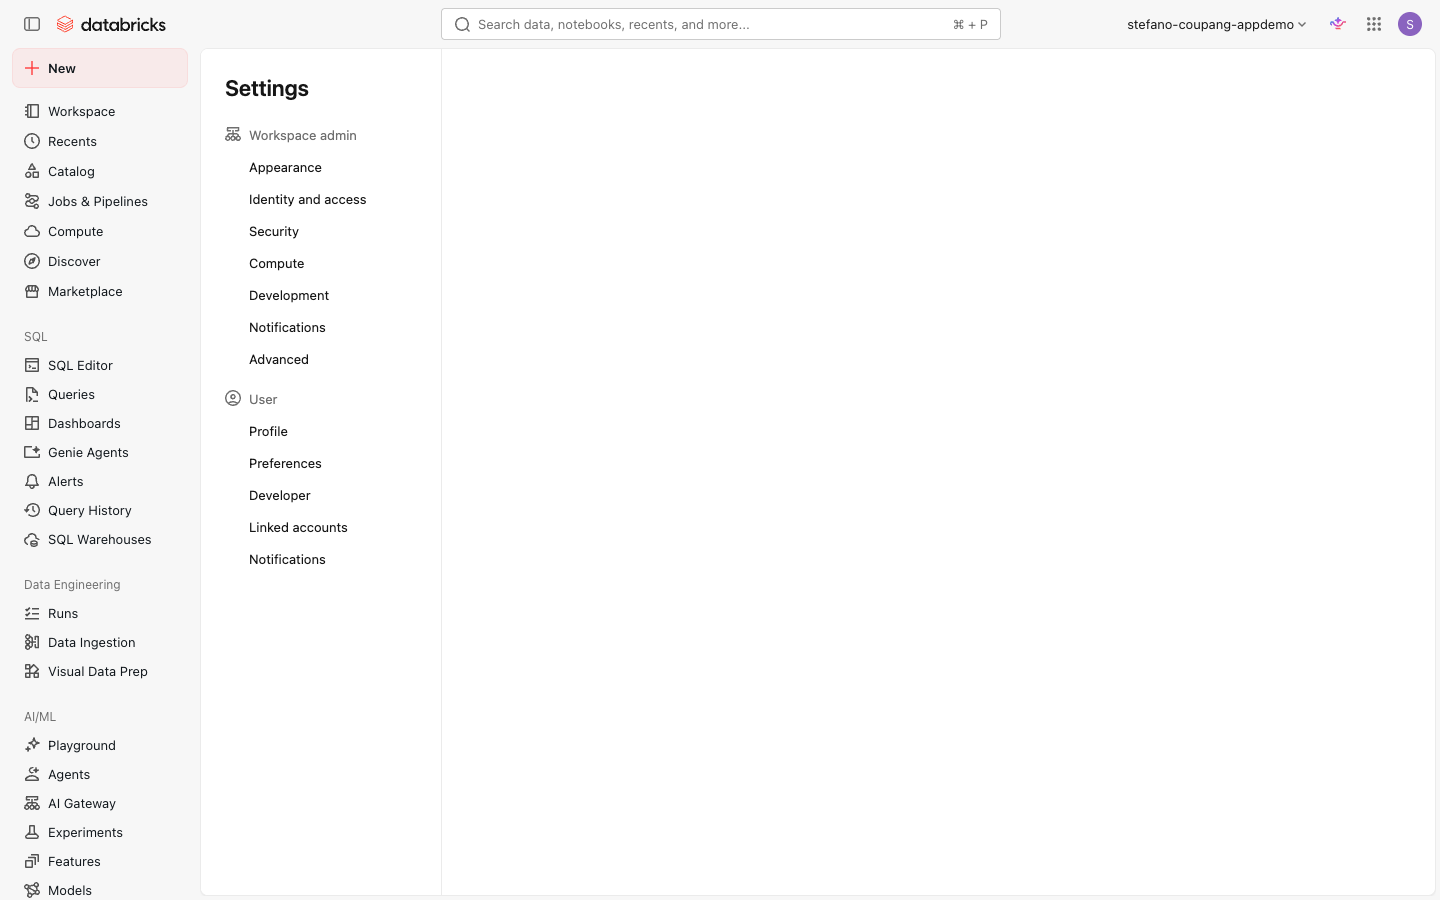
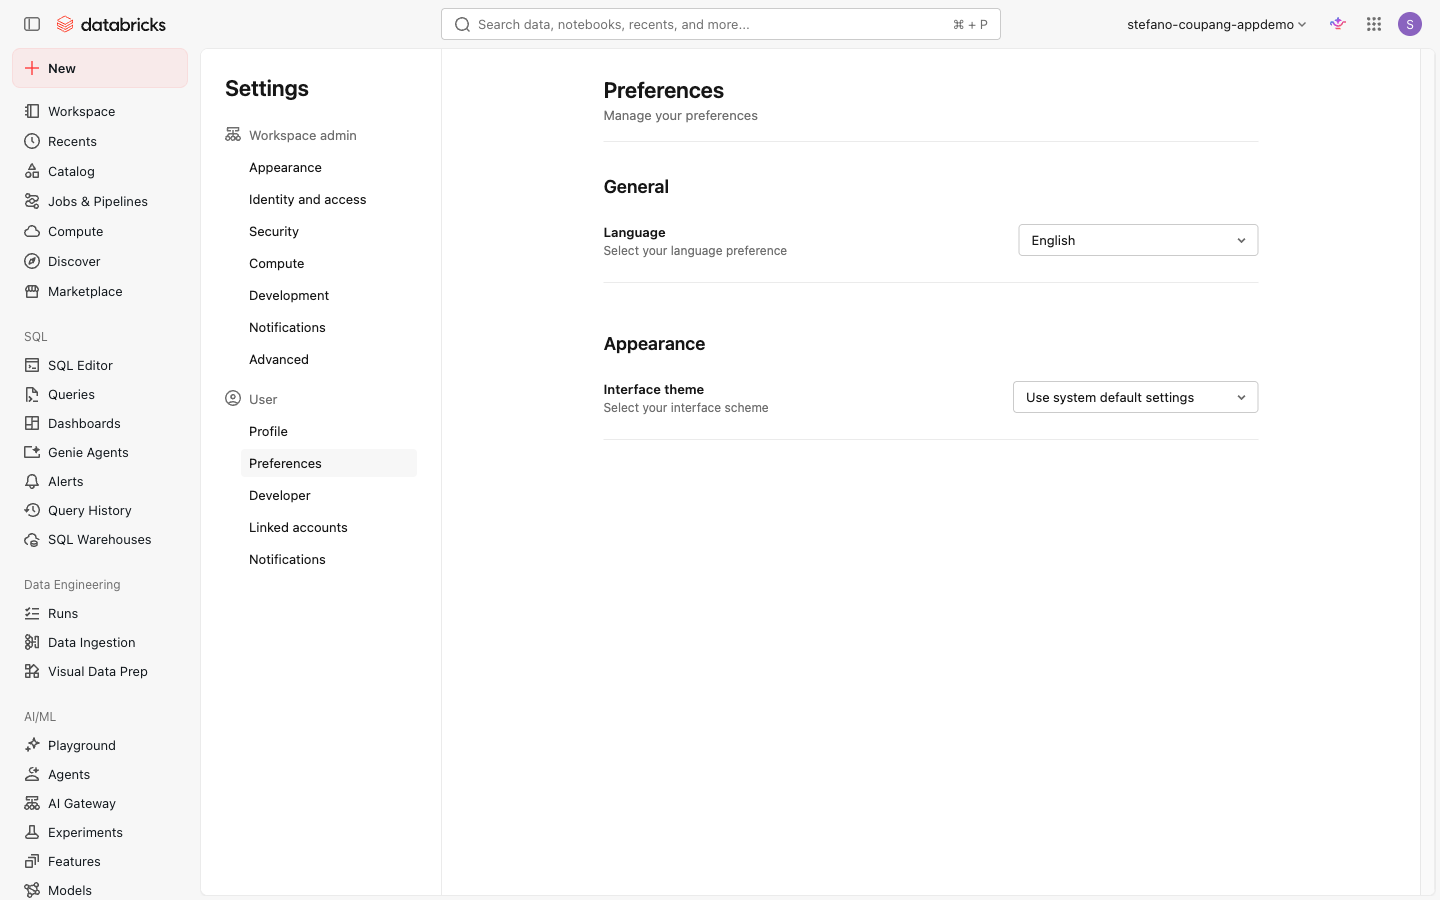
스크린샷 캡션을 설명으로 교체 + 한국어 설정 화면 재촬영 + Free Edition 안내 추가
- 실제 촬영된 스크린샷 17곳의 '📸 캡처 안내'(촬영 지시문) 캡션을 화면 설명으로 교체
- Preferences 화면 재촬영: 빈 하얀 화면 → General > Language 설정이 보이도록 수정
- 언어 드롭다운에서 '한국어'가 보이는 스크린샷(05-language-korean.png) 신규 추가
- 커리큘럼 마지막(README·docs/14)에 Databricks Free Edition 안내 추가 (개인 실습 유도)
- 오래된 참조 수정: 권장 순서 01→14, 동영상 데모 13번

diff --git a/docs/14-snowflake-qa.md b/docs/14-snowflake-qa.md
@@ -252,8 +252,37 @@ Snowflake도 **Iceberg 테이블**을 지원하므로, "Iceberg를 공통 분모
 
 ## 다음 단계 ➡
 
-축하합니다 — 이 문서로 **온보딩 커리큘럼(01~13)을 모두 마쳤습니다!** 🎉
+축하합니다 — 이 문서로 **온보딩 커리큘럼(01~14)을 모두 마쳤습니다!** 🎉
 
 - 🏠 [목차로 돌아가기](../README.md) — 배운 내용을 다시 훑어보세요.
 - 실전 감을 키우려면, [06. 테이블·Volume·RBAC/ABAC](./06-tables-volumes-rbac-abac.md)와 [09. SQL 작성·저장](./09-sql.md)을 실제 데이터로 다시 따라 해 보세요.
 - 이 Q&A의 결론은 하나입니다: **정답은 워크로드에 있습니다.** 작은 PoC로 직접 확인하는 습관이 가장 강력한 무기입니다.
+
+---
+
+## 🚀 이제 직접 해보기 — Databricks Free Edition
+
+이 교육에서 사용한 워크스페이스(`coupang-appdemo`)는 **교육용 샌드박스**입니다. 교육이 끝난 뒤에도 **개인적으로 마음껏 이것저것 실습**해 보고 싶다면 **[Databricks Free Edition](https://www.databricks.com/learn/free-edition)** 을 추천합니다.
+
+**Databricks Free Edition이란?**
+- **완전 무료 · 기간 제한 없음**(영구 무료). 신용카드 없이 시작할 수 있습니다.
+- **학생 · 취미 개발자 · 입문자**를 위한 버전으로, 학습과 개인 프로젝트에 적합합니다.
+
+**무엇을 해 볼 수 있나요?** (이 교육에서 배운 것 대부분을 그대로!)
+- 노트북에서 **Python · SQL** 작성·실행 및 협업
+- **SQL 분석**, **AI/BI 대시보드**, 자연어로 데이터에 묻는 **Genie**
+- **ML 모델**과 **AI 에이전트** 만들기, 내장 **AI 코딩 어시스턴트**
+- **ETL·데이터 엔지니어링 파이프라인** 설계
+
+**알아둘 점 (제약)**
+- 컴퓨트·웨어하우스는 **소규모**로 제한되고 **공정 사용(fair use)** 한도가 있습니다.
+- **상업적(프로덕션) 용도로는 사용할 수 없습니다** — 어디까지나 학습·실험용입니다.
+- 기간이 정해진 **무료 평가판(Trial)**과 달리 Free Edition은 **영구 무료**입니다. (기존 **Community Edition** 계정은 Free Edition으로 전환되는 중이며 연말까지 유지됩니다.)
+
+> 👉 **지금 시작하기**: <https://www.databricks.com/learn/free-edition>
+
+무엇이든 **직접 만들어 보는 것**이 가장 빠른 학습법입니다. 즐거운 실습 되세요! 🚀
+
+---
+
+⬅ [이전: Streamlit→대시보드 데모(시청용)](./13-streamlit-genie-demo.md) | 🏠 [목차](../README.md)

diff --git a/README.md b/README.md
@@ -47,7 +47,7 @@
 | 13 | [Streamlit→대시보드 데모(시청용)](./docs/13-streamlit-genie-demo.md) | Genie 기반 앱→대시보드 데모 소개 |
 | 14 | [Snowflake vs Databricks Q&A](./docs/14-snowflake-qa.md) | SF 출신 SA와의 비교 Q&A |
 
-> 💡 완전 초심자는 **01 → 13 순서대로** 진행하는 것을 권장합니다. 각 문서 하단의 "다음 단계"를 따라가세요.
+> 💡 완전 초심자는 **01 → 14 순서대로** 진행하는 것을 권장합니다. 각 문서 하단의 "다음 단계"를 따라가세요.
 
 ## ✅ 사전 준비
 - Databricks 워크스페이스 접속 권한(교육에서는 `coupang-appdemo` 샌드박스 사용)
@@ -56,11 +56,16 @@
 
 ## 🖼 스크린샷 & 동영상
 - 실습 문서에는 화면 캡처가 함께 제공됩니다. 이미지 규칙은 [`assets/screenshots/README.md`](./assets/screenshots/README.md) 참고.
-- 일부 절차는 동영상으로도 제공됩니다(예: 12번 데모).
+- 일부 절차는 동영상으로도 제공됩니다(예: 13번 Streamlit→대시보드 데모).
 
 ## 📎 참고
 - 모든 기능 설명에는 **Databricks 공식 문서 링크**가 첨부되어 있습니다.
 - 본 자료는 교육용이며, 실제 화면/메뉴 명칭은 제품 업데이트에 따라 달라질 수 있습니다.
+
+## 🚀 직접 해보기 — Databricks Free Edition
+교육 워크스페이스(`coupang-appdemo`)는 교육용 샌드박스입니다. 교육이 끝난 뒤에도 **개인적으로 자유롭게 실습**하고 싶다면, **완전 무료·기간 제한 없는** **[Databricks Free Edition](https://www.databricks.com/learn/free-edition)** 으로 시작하세요. 노트북(Python·SQL)·SQL 분석·대시보드·Genie·ML/AI 등 이 교육에서 배운 대부분을 개인 계정에서 직접 해 볼 수 있습니다. (소규모 컴퓨트·공정 사용 한도가 있으며, 상업적 용도로는 사용할 수 없습니다.)
+
+- ▶ **시작하기**: <https://www.databricks.com/learn/free-edition>
 
 ---
 <sub>License: 저장소의 [LICENSE](./LICENSE) 참고.</sub>

diff --git a/docs/11-dashboards.md b/docs/11-dashboards.md
@@ -75,7 +75,7 @@
 2. 대시보드 목록 페이지가 열립니다. 오른쪽 상단의 **만들기(Create dashboard)** 버튼을 클릭합니다.
 
    ![대시보드 목록](../assets/screenshots/11-dashboards/02-dashboards-list.png)
-   *📸 캡처 안내: 대시보드 목록 화면. 오른쪽 상단 "Create dashboard" 버튼을 강조.*
+   *대시보드 목록 화면 — 우측 상단 "Create dashboard" 버튼과 기존 대시보드("NY Taxi 대시보드") 목록.*
 
 3. 새 대시보드 편집 화면이 열립니다. 화면 상단의 대시보드 이름 필드를 클릭하고 이름을 입력합니다.
 
@@ -151,7 +151,7 @@
 1. 상단에서 **캔버스(Canvas)** 탭을 클릭합니다.
 
    ![Canvas 탭](../assets/screenshots/11-dashboards/09-canvas-tab.png)
-   *📸 캡처 안내: "Canvas" 탭이 선택된 대시보드 편집 화면.*
+   *대시보드 편집(Canvas) 화면 — 총 운행 건수·총 매출·평균 요금 등 KPI 카드와 일별 운행/매출 차트가 배치된 캔버스.*
 
 2. 캔버스 빈 공간 어디서나 클릭하거나, 상단 메뉴의 **추가(+)** 버튼을 클릭해 위젯 추가 메뉴를 엽니다.
 
@@ -290,7 +290,7 @@
 4. 대시보드가 게시되면 편집 모드에서 뷰어 모드로 전환됩니다. 상단에 "게시됨(Published)" 배지가 표시됩니다.
 
    ![게시 완료](../assets/screenshots/11-dashboards/23-published.png)
-   *📸 캡처 안내: 게시된 대시보드 뷰어 화면. 상단에 "Published" 또는 관련 표시가 보이도록.*
+   *게시된 대시보드 화면 — KPI 카드와 차트, 하단의 "Ask Genie" 질의 입력창, 상단의 "Share"·"Edit draft" 표시.*
 
 ---
 

diff --git a/docs/12-apps.md b/docs/12-apps.md
@@ -72,7 +72,7 @@ requirements.txt # Python 패키지 의존성
    > 💡 사이드바에 Apps 아이콘이 보이지 않으면 사이드바 하단의 더 보기(⋯) 메뉴 또는 **컴퓨트(Compute)** 항목 아래에서 찾아보세요. 워크스페이스 설정에 따라 위치가 다를 수 있습니다.
 
    ![Apps 화면](../assets/screenshots/12-apps/01-apps-nav.png)
-   *📸 캡처 안내: 워크스페이스 왼쪽 사이드바에서 Apps 아이콘을 클릭한 뒤 Apps 목록 화면이 표시된 상태를 캡처합니다. 사이드바에서 어떤 아이콘이 선택되어 있는지 보이도록 캡처하세요.*
+   *Databricks Apps 홈 — 앱 목록에 "nytaxi-dashboard"(Active)가 표시되고 우측 상단에 "Create app" 버튼.*
 
 ### 2단계: 새 앱 만들기 시작
 
@@ -122,7 +122,7 @@ requirements.txt # Python 패키지 의존성
    *📸 캡처 안내: 앱 상세 페이지에서 "Deploying" 또는 "Starting" 상태가 표시된 화면을 캡처합니다. URL 상단의 앱 이름이 보이도록 합니다.*
 
    ![앱 Running 상태](../assets/screenshots/12-apps/06-running.png)
-   *📸 캡처 안내: 앱 상태가 "Running"으로 변경된 화면을 캡처합니다. 앱 URL 링크와 상태 배지가 잘 보이도록 합니다.*
+   *앱 상세(Overview) 화면 — App status가 "Running"이고 접속 URL이 활성화된 상태, 배포 이력(App started successfully)까지 표시.*
 
 ### 6단계: 앱 URL로 접속
 

diff --git a/docs/05-compute.md b/docs/05-compute.md
@@ -121,7 +121,7 @@ Python / Spark 코드를 노트북에서 대화형으로 실행하고 싶다면
 3. 컴퓨트 목록 페이지가 열립니다. 상단에 **All-Purpose Compute**, **Job Compute**, **SQL Warehouses** 탭이 보입니다.
 
 ![컴퓨트 탭 구조](../assets/screenshots/05-compute/02-compute-tabs.png)
-*📸 캡처 안내: 컴퓨트 페이지 상단의 All-Purpose Compute / Job Compute / SQL Warehouses 탭이 모두 보이도록 캡처합니다.*
+*컴퓨트 페이지 상단 탭(Serverless · SQL warehouses · AI Search · Apps)과 기본 서버리스 컴퓨트(Default Interactive/Automated Compute) 목록. (워크스페이스 구성에 따라 탭 이름·구성은 달라질 수 있습니다.)*
 
 ---
 
@@ -204,7 +204,7 @@ Python / Spark 코드를 노트북에서 대화형으로 실행하고 싶다면
 1. 컴퓨트 페이지 상단 탭에서 **SQL Warehouses** 탭을 클릭합니다.
 
 ![SQL Warehouses 탭](../assets/screenshots/05-compute/11-sql-warehouse-tab.png)
-*📸 캡처 안내: SQL Warehouses 탭이 선택된 상태의 화면 상단을 캡처합니다.*
+*컴퓨트 > "SQL warehouses" 탭 — "Serverless Starter Warehouse"(Small · Serverless) 목록과 우측 "Create SQL warehouse" 버튼.*
 
 2. 오른쪽 상단의 **SQL Warehouse 만들기(Create SQL warehouse)** 버튼을 클릭합니다.
 

diff --git a/docs/10-jobs.md b/docs/10-jobs.md
@@ -105,7 +105,7 @@ print("✅ Job 태스크 실행 완료!")
 2. **잡(Jobs)** 탭이 기본으로 열립니다. 기존에 생성된 Job 목록이 표시됩니다.
 
    ![Jobs 탭](../assets/screenshots/10-jobs/02-jobs-list.png)
-   *📸 캡처 안내: "Jobs" 탭 화면 전체. 상단에 "Create job" 버튼이 보이도록.*
+   *Jobs & Pipelines 화면 — 상단 "Create new"(Ingestion pipeline · ETL pipeline · Job) 카드와 잡·파이프라인 목록, 우측 "Create" 버튼.*
 
 ---
 
@@ -205,7 +205,7 @@ print("✅ Job 태스크 실행 완료!")
 1. **실행(Runs)** 탭에서 방금 시작된 실행 항목을 클릭합니다. 상태가 **실행 중(Running)** 이라면 완료될 때까지 잠시 기다립니다.
 
    ![Runs 탭](../assets/screenshots/10-jobs/12-runs-tab.png)
-   *📸 캡처 안내: Runs 탭에서 최근 실행 목록. 상태(Succeeded/Running/Failed)와 시작 시간이 보이도록.*
+   *Jobs & Pipelines의 "Runs" 탭 — 실행 상태(Failed·Skipped·Succeeded) 타임라인 차트와 기간 필터, 실행 목록 영역.*
 
 2. 실행 상세 화면에서 다음 정보를 확인합니다.
 

diff --git a/docs/04-groups.md b/docs/04-groups.md
@@ -89,13 +89,13 @@
 3. 화면 상단의 탭 중 **Groups** 를 클릭합니다.
 
    ![계정 콘솔 Groups 탭](../assets/screenshots/04-groups/01-account-console-groups-tab.png)
-   *📸 캡처 안내: `accounts.cloud.databricks.com` > User Management > Groups 탭이 선택된 화면. 기존 그룹 목록이 보이도록 캡처. 이메일 주소는 마스킹.*
+   *그룹 목록 화면 — admins·users 등 계정에 정의된 그룹과 각 그룹의 멤버 수·소스(System/Account), 우측 상단 "Add group" 버튼.*
 
 4. 오른쪽 상단의 **Add Group** 버튼을 클릭합니다.
 5. **Group name** 입력란에 `onboarding_analytics_team` 을 입력합니다.
 
    ![그룹 이름 입력](../assets/screenshots/04-groups/02-add-group-name.png)
-   *📸 캡처 안내: Add Group 다이얼로그(또는 양식)에 그룹 이름 `onboarding_analytics_team`을 입력한 상태.*
+   *"Add group" 다이얼로그 — 계정의 기존 그룹을 선택하거나 새 그룹을 만들어 추가하는 화면.*
 
 6. **Add** 버튼을 클릭하여 그룹을 생성합니다.
 

diff --git a/docs/07-notebooks.md b/docs/07-notebooks.md
@@ -129,7 +129,7 @@
 3. 셀 왼쪽의 ▶ 버튼을 클릭하거나 **Shift + Enter** 를 눌러 실행합니다.
 
    ![셀 실행 결과](../assets/screenshots/07-notebooks/06-run-cell.png)
-   *📸 캡처 안내: Python 셀에 print 코드가 입력되고, 셀 아래에 "안녕하세요, Databricks 노트북입니다!" 출력 결과가 보이도록 캡처합니다.*
+   *노트북 셀을 실행하는 방법 — 셀 왼쪽 상단 실행 버튼의 드롭다운(Run cell · Run all above · Run all below). 실행하면 셀 아래에 출력이 표시됩니다.*
 
 4. 셀 아래에 출력 결과가 표시됩니다.
 
